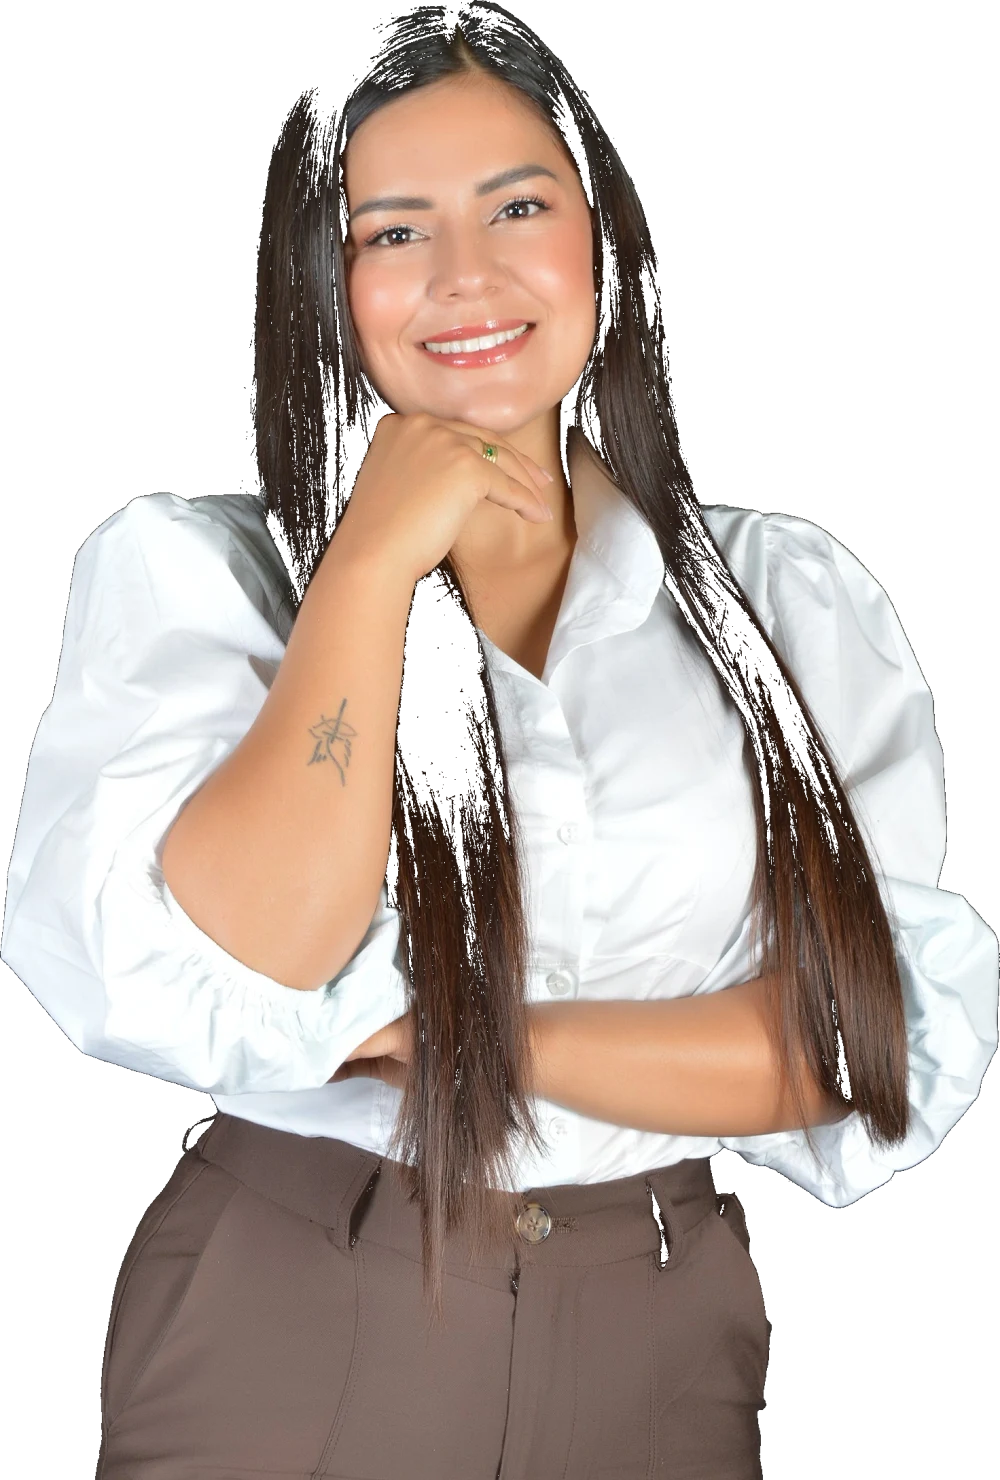
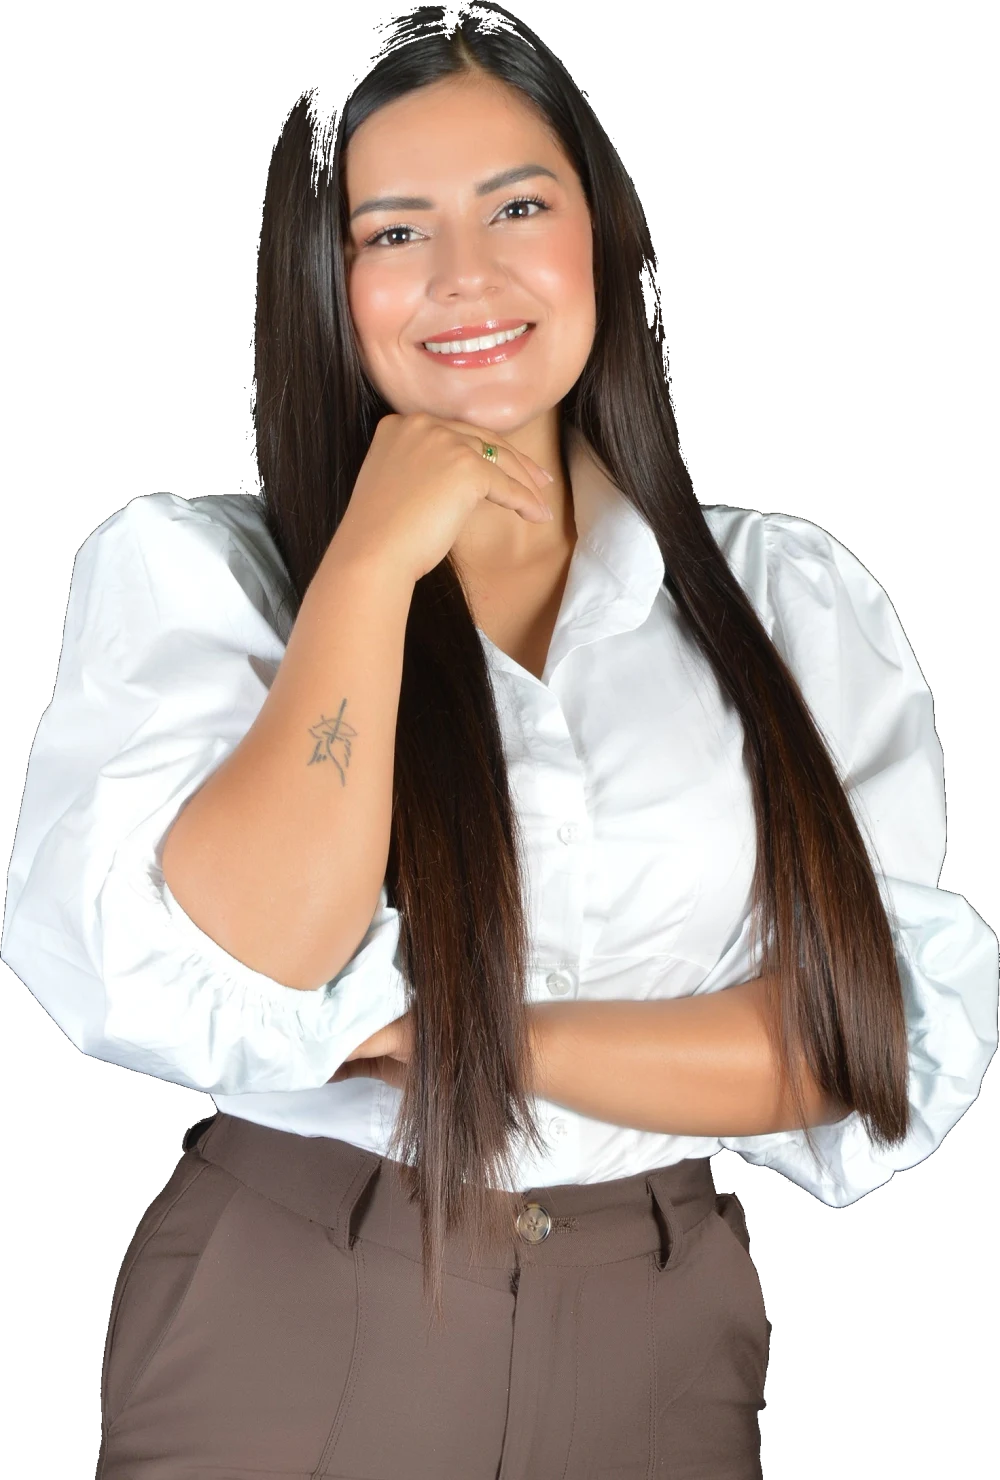
Corrige el link Renta 2026, el pelo recortado y sube foto más nítida al Hero
El link "Renta 2026" del navbar apuntaba al tope de toda la sección Hero;
en el layout apilado de móvil/tablet la calculadora queda varias pantallas
más abajo, así que aterrizar ahí se sentía como si el link no llevara a
ningún lado. Ahora salta directo a la tarjeta de la calculadora que esté
visible según el breakpoint (hay dos instancias en el DOM, una inline para
móvil/tablet y otra flotante de escritorio).

Corrige un defecto real en la foto de "Por qué Daniela": el recorte de
fondo negro agujereaba el pelo por dentro (pelo oscuro sobre fondo negro
es el caso más difícil de recortar con un umbral simple). Cambia el
algoritmo a relleno por conectividad desde el borde, que solo borra el
negro conectado al fondo real y deja intacto el pelo oscuro aislado
dentro de la silueta.

Reemplaza la foto del Hero por una versión más nítida que Daniela subió
(la anterior estaba comprimida de forma agresiva, 69KB para 1280x1280).

diff --git a/components/Navbar.tsx b/components/Navbar.tsx
@@ -21,6 +21,21 @@ export default function Navbar() {
     return () => window.removeEventListener("scroll", onScroll);
   }, []);
 
+  // "Renta 2026" apuntaba al <section> del Hero completo: en el layout apilado
+  // de móvil/tablet la calculadora queda varias pantallas más abajo (foto,
+  // titular, contador, CTAs...), así que llegar al "tope" de la sección se
+  // sentía como si el link no llevara a ningún lado. Ahora salta directo a la
+  // tarjeta de la calculadora que esté realmente visible (hay dos en el DOM,
+  // una para móvil/tablet y otra flotante de escritorio; solo una se muestra
+  // por breakpoint).
+  const scrollToCalculator = (e: React.MouseEvent<HTMLAnchorElement>) => {
+    e.preventDefault();
+    const cards = document.querySelectorAll<HTMLElement>("[data-calculator-card]");
+    const visible = Array.from(cards).find((el) => el.offsetParent !== null);
+    const target = visible ?? document.getElementById("renta-2026");
+    target?.scrollIntoView({ behavior: "smooth", block: "center" });
+  };
+
   return (
     <header
       className={`fixed top-0 left-0 right-0 z-50 transition-all duration-300 ${
@@ -38,6 +53,7 @@ export default function Navbar() {
             <li key={l.href}>
               <a
                 href={l.href}
+                onClick={l.href === "#renta-2026" ? scrollToCalculator : undefined}
                 className="text-sm font-[family-name:var(--font-inter)] text-[#EDE5D4]/80 hover:text-[#C9A84C] transition-colors tracking-wider uppercase"
               >
                 {l.label}
@@ -79,7 +95,10 @@ export default function Navbar() {
             <a
               key={l.href}
               href={l.href}
-              onClick={() => setOpen(false)}
+              onClick={(e) => {
+                setOpen(false);
+                if (l.href === "#renta-2026") scrollToCalculator(e);
+              }}
               className="text-[#EDE5D4]/80 hover:text-[#C9A84C] tracking-wider uppercase text-sm py-3 border-b border-[#C9A84C]/10 last:border-0"
             >
               {l.label}

diff --git a/components/Hero.tsx b/components/Hero.tsx
@@ -265,7 +265,7 @@ export default function Hero() {
           </div>
           <div className="absolute inset-0 overflow-hidden">
             <Image
-              src="/daniela.webp"
+              src="/daniela-prueba.webp"
               alt="Daniela Campos, Contadora Pública en Fusagasugá"
               fill
               sizes="100vw"
@@ -350,8 +350,12 @@ export default function Hero() {
               </a>
             </div>
 
-            {/* Calculator — phones/tablets/small laptops (inline) */}
-            <div className="xl:hidden" style={{ filter: "drop-shadow(0 25px 50px rgba(0,0,0,0.6))" }}>
+            {/* Calculator — phones/tablets/small laptops (inline). data-calculator-card
+                lets the Navbar's "Renta 2026" link jump straight to whichever of the two
+                calculator instances is actually visible, instead of just the top of the
+                section (which, in this stacked mobile layout, can leave the calculator
+                itself well below the fold). */}
+            <div data-calculator-card className="xl:hidden" style={{ filter: "drop-shadow(0 25px 50px rgba(0,0,0,0.6))" }}>
               <CalculatorCard {...calcProps} />
             </div>
           </div>
@@ -372,7 +376,7 @@ export default function Hero() {
             </div>
             <div className="relative w-full overflow-hidden">
               <Image
-                src="/daniela.webp"
+                src="/daniela-prueba.webp"
                 alt="Daniela Campos, Contadora Pública en Fusagasugá"
                 width={1280}
                 height={1280}
@@ -386,6 +390,7 @@ export default function Hero() {
 
             {/* Floating calculator — anchored to the photo's own box */}
             <div
+              data-calculator-card
               className="absolute bottom-8 -left-8 w-[340px] 2xl:w-[380px] z-20"
               style={{ filter: "drop-shadow(0 25px 50px rgba(0,0,0,0.6))" }}
             >
